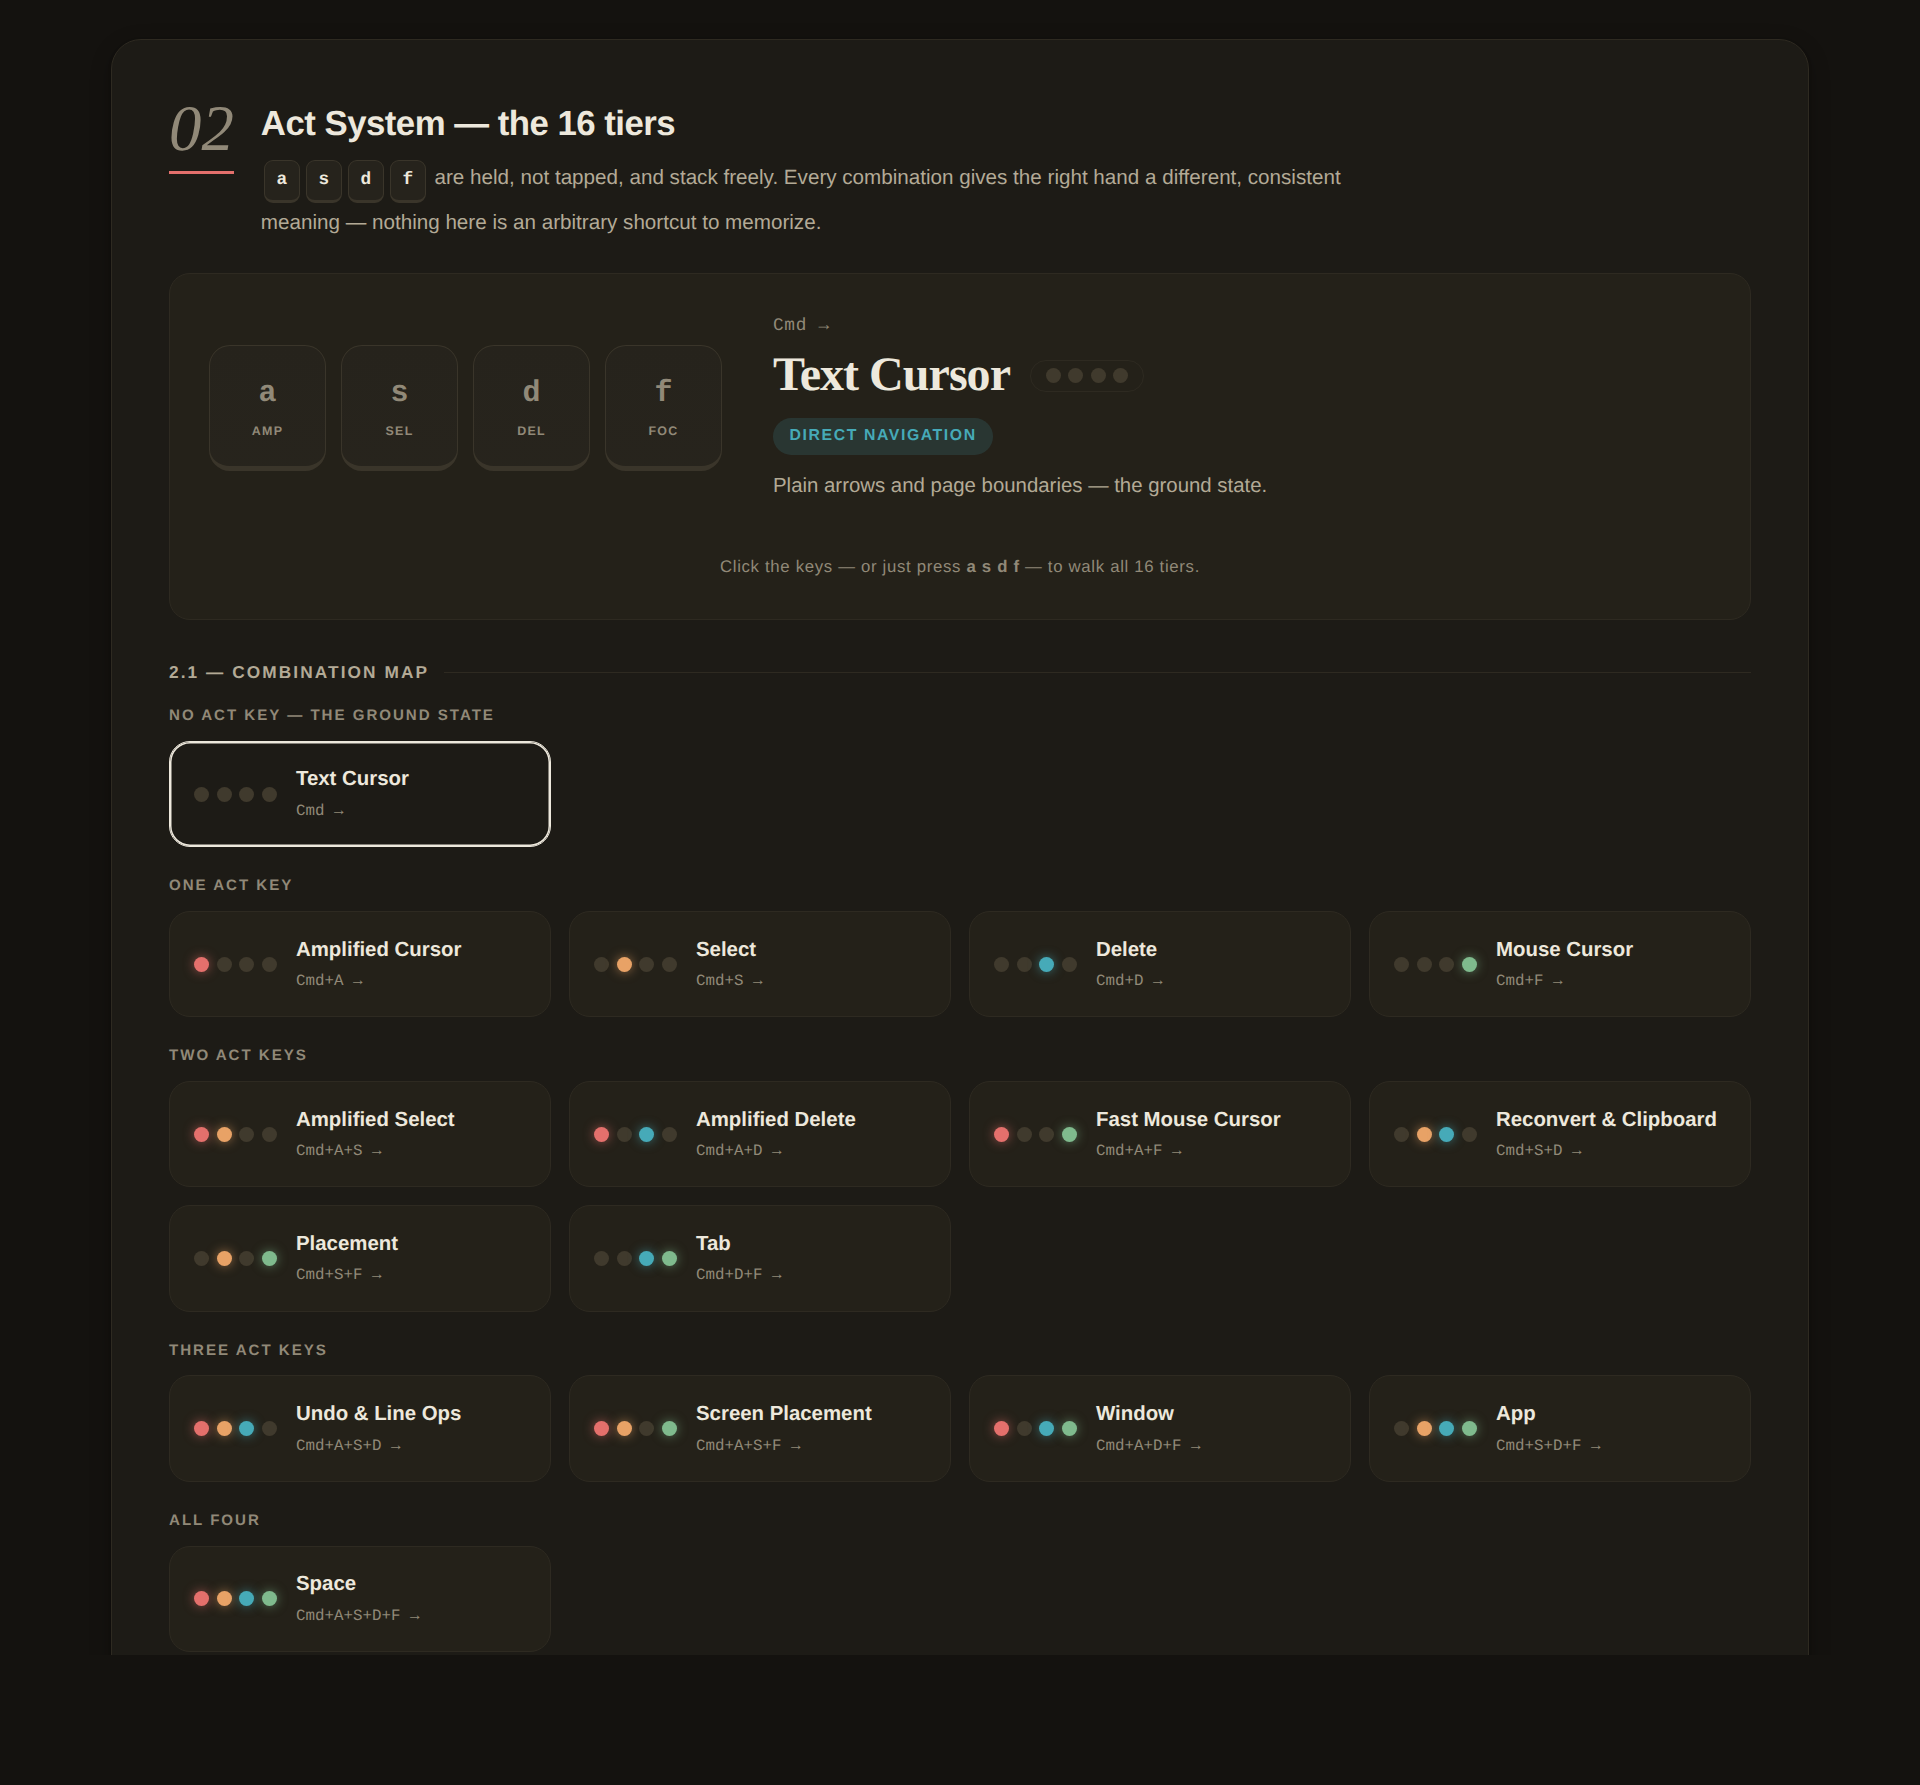
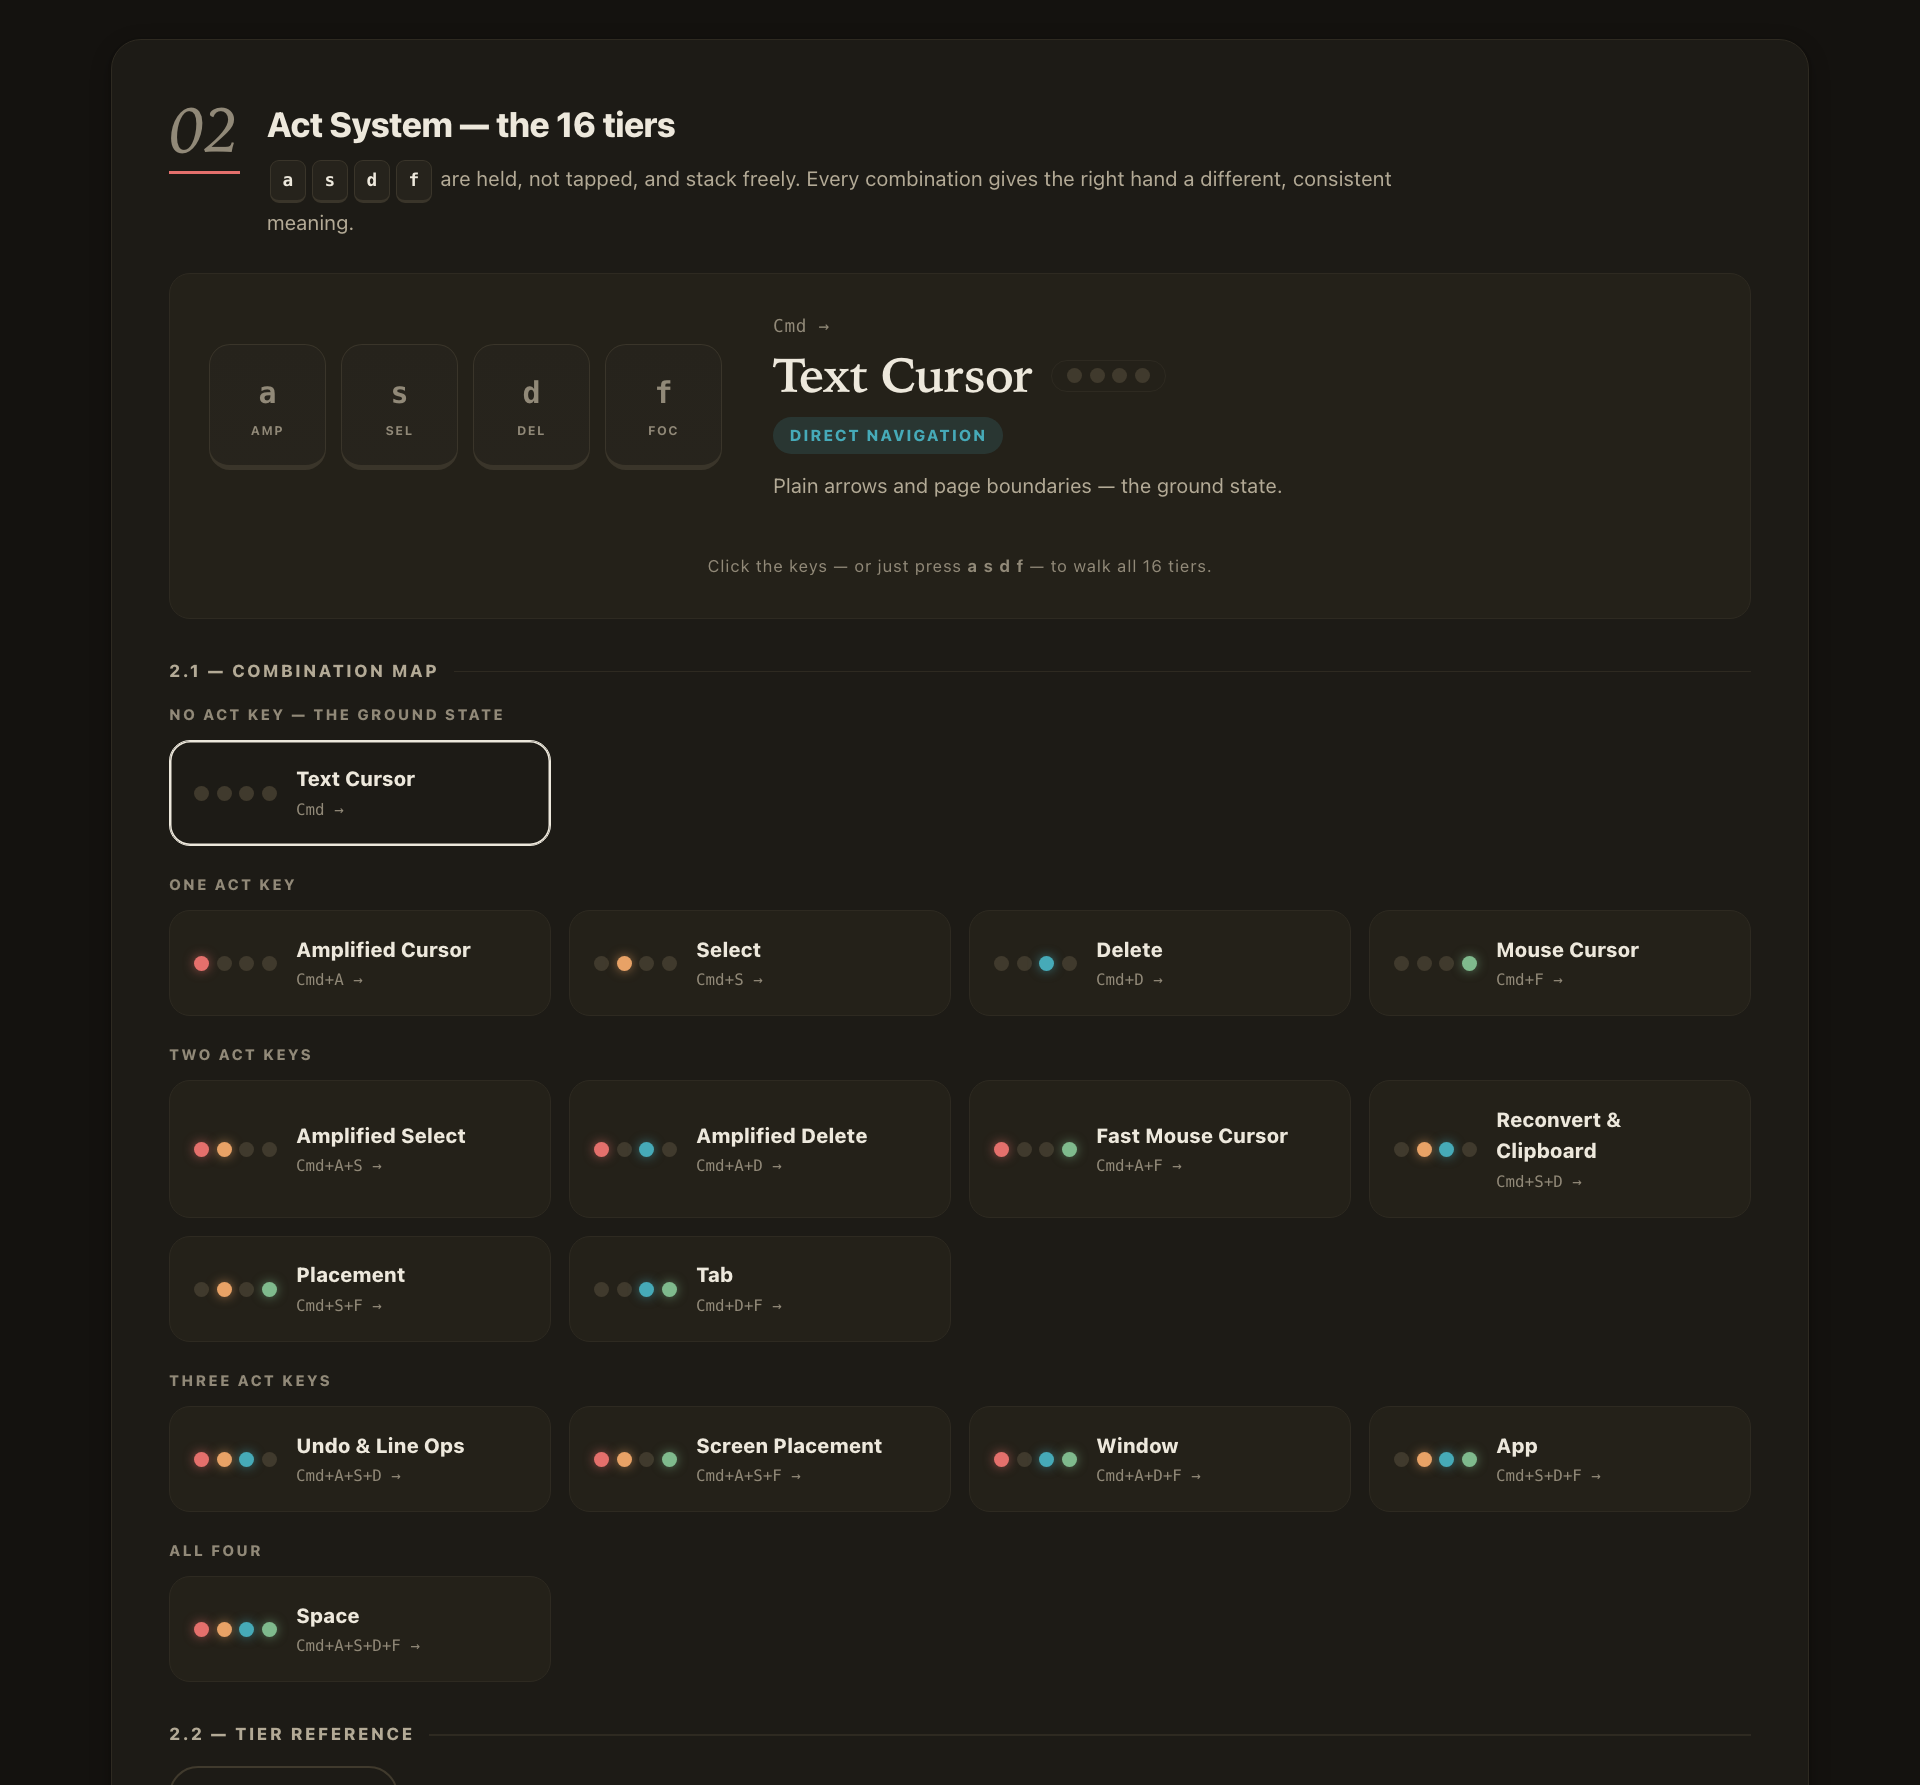
docs: fix four errors in the manual and drop background asides
Mark esc as remapped in the keyboard diagram and list fn and escape in
its label, drop the Space note that only one modifier is thumb-reachable,
and show the App tier's k as ⌘. rather than a bare period. Remove the
sentences that explained why rather than what, per the house rule.
README screenshots are regenerated for the diagram change.

diff --git a/docs/index.html b/docs/index.html
@@ -700,9 +700,9 @@ body.searching .chapter-nav{ margin-top:0; }
     <!-- Keyboard diagram, modeled on a real MacBook (Touch ID, no Touch Bar) layout. -->
     <div class="kb-stage reveal">
       <div class="kb-scroll">
-        <div class="kb" role="img" aria-label="Keyboard diagram. Held triggers for the three main layers: left Command, left Shift and right Shift. Act keys a, s, d and f sit on the left home row. The keys they remap are h j k l, u i o p, the bracket, semicolon and quote group, q w e r t y g, the whole bottom letter row, the number row, backslash, tab, caps lock, spacebar, left Option and right Command.">
+        <div class="kb" role="img" aria-label="Keyboard diagram. Held triggers for the three main layers: left Command, left Shift and right Shift. Act keys a, s, d and f sit on the left home row. The keys they remap are h j k l, u i o p, the bracket, semicolon and quote group, q w e r t y g, the whole bottom letter row, the number row, backslash, tab, caps lock, spacebar, left Option, right Command, fn and escape.">
           <div class="kb-row" aria-hidden="true">
-            <span class="keycap mod" style="--sp:6">esc</span><span class="keycap mod">F1</span><span class="keycap mod">F2</span><span class="keycap mod">F3</span><span class="keycap mod">F4</span><span class="keycap mod">F5</span><span class="keycap mod">F6</span><span class="keycap mod">F7</span><span class="keycap mod">F8</span><span class="keycap mod">F9</span><span class="keycap mod">F10</span><span class="keycap mod">F11</span><span class="keycap mod">F12</span><span class="keycap touchid"></span>
+            <span class="keycap mod k-mapped" style="--sp:6">esc</span><span class="keycap mod">F1</span><span class="keycap mod">F2</span><span class="keycap mod">F3</span><span class="keycap mod">F4</span><span class="keycap mod">F5</span><span class="keycap mod">F6</span><span class="keycap mod">F7</span><span class="keycap mod">F8</span><span class="keycap mod">F9</span><span class="keycap mod">F10</span><span class="keycap mod">F11</span><span class="keycap mod">F12</span><span class="keycap touchid"></span>
           </div>
           <div class="kb-row" aria-hidden="true">
             <span class="keycap">`</span><span class="keycap k-mapped">1</span><span class="keycap k-mapped">2</span><span class="keycap k-mapped">3</span><span class="keycap k-mapped">4</span><span class="keycap k-mapped">5</span><span class="keycap k-mapped">6</span><span class="keycap k-mapped">7</span><span class="keycap k-mapped">8</span><span class="keycap k-mapped">9</span><span class="keycap k-mapped">0</span><span class="keycap">-</span><span class="keycap">=</span><span class="keycap mod" style="--sp:6">delete</span>
@@ -854,7 +854,7 @@ body.searching .chapter-nav{ margin-top:0; }
           <tr><td><span class="key">L-⇧</span></td><td><strong>Bra layer</strong></td><td class="dim"><code>`</code> — with R-⇧ held: <code>~</code></td></tr>
           <tr><td><span class="key">R-⇧</span></td><td><strong>Cket layer</strong></td><td class="dim"><code>\</code> — with L-⇧ held: <code>|</code></td></tr>
           <tr><td><span class="key">Caps Lock</span></td><td>⌘ &nbsp;<span class="dim">(inside Asterisk it is a system-action key, §06)</span></td><td class="dim">Esc &nbsp;<span class="dim">(inside Asterisk, physical Escape is a separate system-action key, §07)</span></td></tr>
-          <tr><td><span class="key">Space</span></td><td>⇧ &nbsp;<span class="dim">(the only modifier either thumb can reach)</span></td><td class="dim">Space</td></tr>
+          <tr><td><span class="key">Space</span></td><td>⇧</td><td class="dim">Space</td></tr>
           <tr><td><span class="key">R-⌘</span></td><td>⌘</td><td class="dim">Japanese <code>かな</code> key code — toggles the IME's kana / alphanumeric mode, not an input-source switch</td></tr>
           <tr><td><span class="key">L-⌥</span></td><td>⌥</td><td class="dim">Switch to Greek input</td></tr>
           <tr><td><span class="key">fn</span></td><td>⌃ &nbsp;<span class="dim">(plain remap, not a hold action)</span></td><td class="dim">—</td></tr>
@@ -873,7 +873,7 @@ body.searching .chapter-nav{ margin-top:0; }
         <p class="sec-desc">
           <span class="key">a</span><span class="key">s</span><span class="key">d</span><span class="key">f</span>
           are held, not tapped, and stack freely. Every combination gives the right hand a different,
-          consistent meaning — nothing here is an arbitrary shortcut to memorize.
+          consistent meaning.
         </p>
       </div>
     </div>
@@ -1122,7 +1122,7 @@ body.searching .chapter-nav{ margin-top:0; }
           <tr>
             <td><span class="act-badge"><span class="dots"><span class="dot"></span><span class="dot on-s"></span><span class="dot on-d"></span><span class="dot on-f"></span></span></span></td>
             <td class="row-label">App<span class="formula">Cmd+S+D+F →</span></td>
-            <td>Previous app<span class="hint">⇧⌘Tab</span></td><td>Quit app<span class="hint">⌘Q</span></td><td>Cancel the switcher<span class="hint">.</span></td><td>Next app<span class="hint">⌘Tab</span></td><td>Hide others<span class="hint">⌥⌘H</span></td><td>Close all windows<span class="hint">⌥⌘W</span></td><td>Focus the Dock<span class="hint">⌃F3</span></td><td>Hide app<span class="hint">⌘H</span></td>
+            <td>Previous app<span class="hint">⇧⌘Tab</span></td><td>Quit app<span class="hint">⌘Q</span></td><td>Cancel the switcher<span class="hint">⌘.</span></td><td>Next app<span class="hint">⌘Tab</span></td><td>Hide others<span class="hint">⌥⌘H</span></td><td>Close all windows<span class="hint">⌥⌘W</span></td><td>Focus the Dock<span class="hint">⌃F3</span></td><td>Hide app<span class="hint">⌘H</span></td>
             <td class="dim">Launchpad</td><td class="dim">Launchpad</td><td class="dim">Launchpad</td><td class="dim">Launchpad</td>
           </tr>
           <tr>
@@ -1145,12 +1145,11 @@ body.searching .chapter-nav{ margin-top:0; }
         </tbody>
       </table>
     </div>
-    <p class="note">The real Space bar is <strong>⇧</strong> on hold, so it cannot produce a held or modified space. This is where that space lives.</p>
 
     <div class="sub-head">4.6 — Inside iTerm2</div>
     <p class="sec-desc">
-      A shell line has no selection and no paragraphs, so the eight text tiers
-      send shell control sequences there instead of macOS editing keys. Only
+      In iTerm2 the eight text tiers send shell control sequences instead of
+      macOS editing keys. Only
       the cells below change; everything not listed behaves as it does
       everywhere else.
     </p>
@@ -1169,8 +1168,8 @@ body.searching .chapter-nav{ margin-top:0; }
         </tbody>
       </table>
     </div>
-    <p class="note"><strong>Inert in iTerm2:</strong> both select tiers entirely (<span class="key">s</span> and <span class="key">a+s</span>, all eight keys each), the multi-line deletes on <span class="key">d</span> and <span class="key">a+d</span>, the reconversion row on <span class="key">s+d</span>, and the line operations on <span class="key">a+s+d</span>. They are silenced rather than left to fall through, because what would fall through is a macOS editing key the shell mangles.</p>
-    <p class="note">Word motion and word delete need iTerm2's <strong>Left Option Key = Esc+</strong> (Settings → Profiles → Keys). That setting is the one part of this feature that does not live in this repo. The switch applies to iTerm2 alone — other terminal apps, and terminals embedded in editors, get the ordinary tiers.</p>
+    <p class="note"><strong>Inert in iTerm2:</strong> both select tiers entirely (<span class="key">s</span> and <span class="key">a+s</span>, all eight keys each), the multi-line deletes on <span class="key">d</span> and <span class="key">a+d</span>, the reconversion row on <span class="key">s+d</span>, and the line operations on <span class="key">a+s+d</span>.</p>
+    <p class="note">Word motion and word delete need iTerm2's <strong>Left Option Key = Esc+</strong> (Settings → Profiles → Keys). The switch applies to iTerm2 alone — other terminal apps, and terminals embedded in editors, get the ordinary tiers.</p>
 
   </section>
 
@@ -1345,8 +1344,6 @@ body.searching .chapter-nav{ margin-top:0; }
         <h2>Tab — Focus Jump</h2>
         <p class="sec-desc">
           Inside Asterisk, Tab moves focus — to the next window, or to the menu bar.
-          These actions are meant to be fired and immediately followed by more typing — home
-          position is preserved throughout.
         </p>
       </div>
     </div>
@@ -1480,7 +1477,7 @@ body.searching .chapter-nav{ margin-top:0; }
     <div class="glossary-grid">
       <div class="glossary-item">
         <div class="glossary-term">Layer</div>
-        <p class="glossary-def">A whole alternate keyboard that is live only while its trigger key is held. Release the trigger and it's gone — nothing is ever "left on".</p>
+        <p class="glossary-def">A whole alternate keyboard that is live only while its trigger key is held. Release the trigger and it's gone.</p>
       </div>
       <div class="glossary-item">
         <div class="glossary-term">Asterisk / Bra / Cket</div>
@@ -1516,7 +1513,7 @@ body.searching .chapter-nav{ margin-top:0; }
       </div>
       <div class="glossary-item">
         <div class="glossary-term">Alone / tap</div>
-        <p class="glossary-def">Pressing and releasing a hold-key without touching anything else. Most trigger keys carry a tap action too, so few keys are spent on holding alone.</p>
+        <p class="glossary-def">Pressing and releasing a hold-key without touching anything else.</p>
       </div>
     </div>
   </section>
